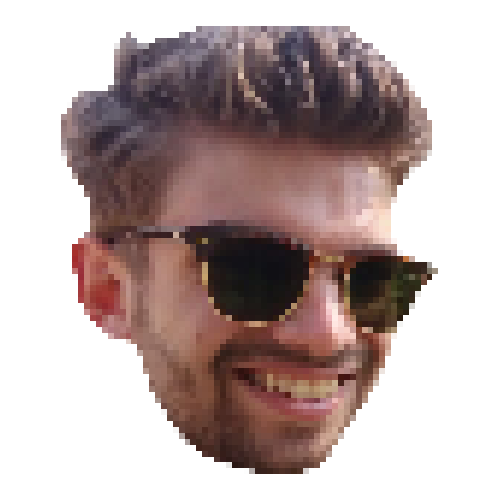
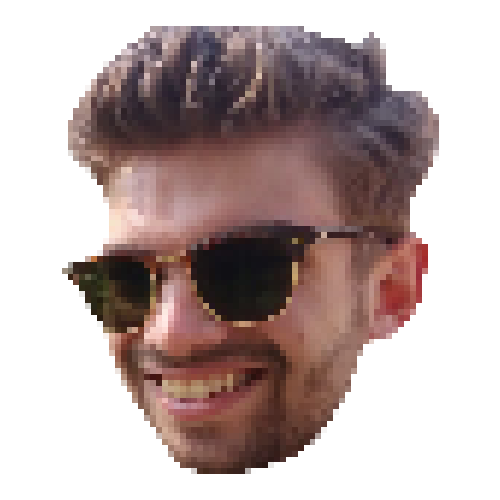
Squashed commit of the following:
commit c1faaf876f78c0335c3fbadbf3f571483655cbcf
Author: rijkvanzanten <rijkvanzanten@me.com>
Date:   Wed Sep 26 14:50:02 2018 -0400

    Style the sidebar

diff --git a/_sass/_layout.scss b/_sass/_layout.scss
@@ -1,15 +1,21 @@
-body {
+.wrapper {
   display: flex;
   padding: 5rem 20rem;
+  max-width: 1020px;
+  margin: 0 auto;
 }
 
 #sidebar {
   position: sticky;
+  position: -webkit-sticky;
   top: 0;
-  padding-right: 2rem;
-  border-right: 1px dashed $blue
+  padding-left: 2rem;
+  border-left: 1px dashed $blue;
+  flex-basis: 15rem;
+  width: 15rem;
 }
 
 #content {
-  padding-left: 2rem;
+  padding-right: 2rem;
+  flex-grow: 1;
 }

diff --git a/_sass/_sidebar.scss b/_sass/_sidebar.scss
@@ -1,0 +1,29 @@
+#sidebar {
+  position: relative;
+
+  img {
+    width: 100%;
+    margin-bottom: 2rem;
+
+    &:hover {
+      transform: rotate(15deg);
+    }
+  }
+
+  ul {
+    list-style: none;
+    padding: 0;
+  }
+
+  li {
+    padding: 10px 0;
+
+    a {
+      color: $white;
+
+      &:hover {
+        color: $blue;
+      }
+    }
+  }
+}

diff --git a/_layouts/default.html b/_layouts/default.html
@@ -2,9 +2,11 @@
 <html>
   {% include head.html %}
   <body>
-    {% include sidebar.html %}
-    <main id="content">
-      {{ content }}
-    </main>
+    <div class="wrapper">
+      <main id="content">
+        {{ content }}
+      </main>
+      {% include sidebar.html %}
+    </div>
   </body>
 </html>

diff --git a/_includes/sidebar.html b/_includes/sidebar.html
@@ -1,5 +1,7 @@
 <div id="sidebar">
-  <img src="/assets/img/rijk.png" alt="Rijk van Zanten" />
+  <a href="/">
+    <img src="/assets/img/rijk.png" alt="Rijk van Zanten" />
+  </a>
   <nav>
     <ul>
       {% for item in site.data.nav.links %}
